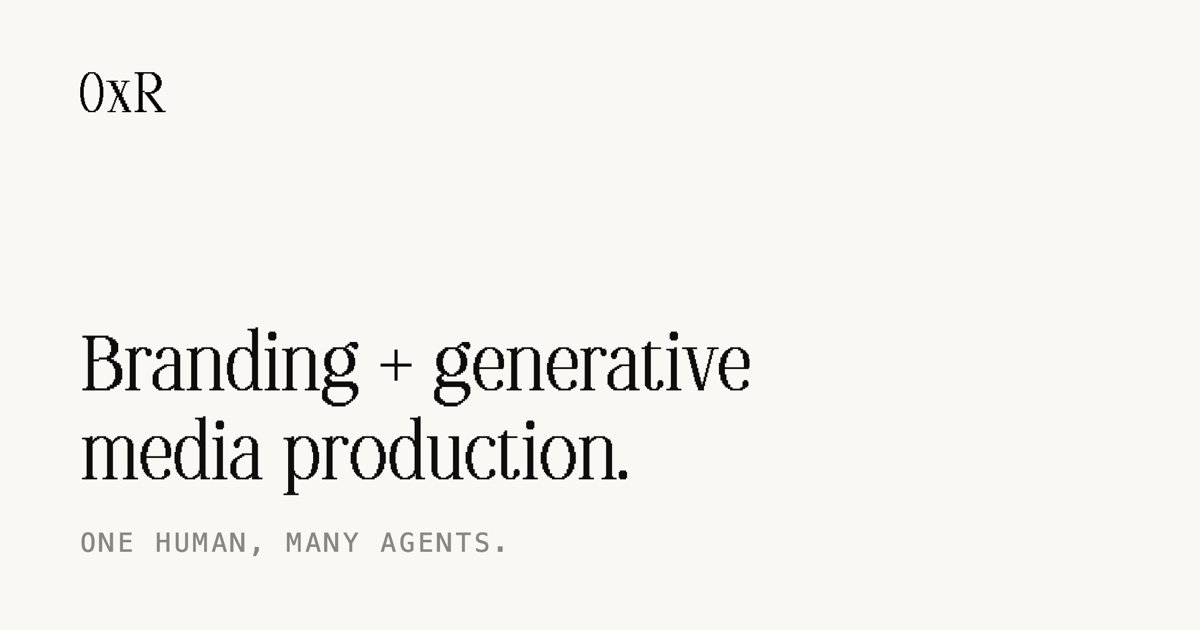
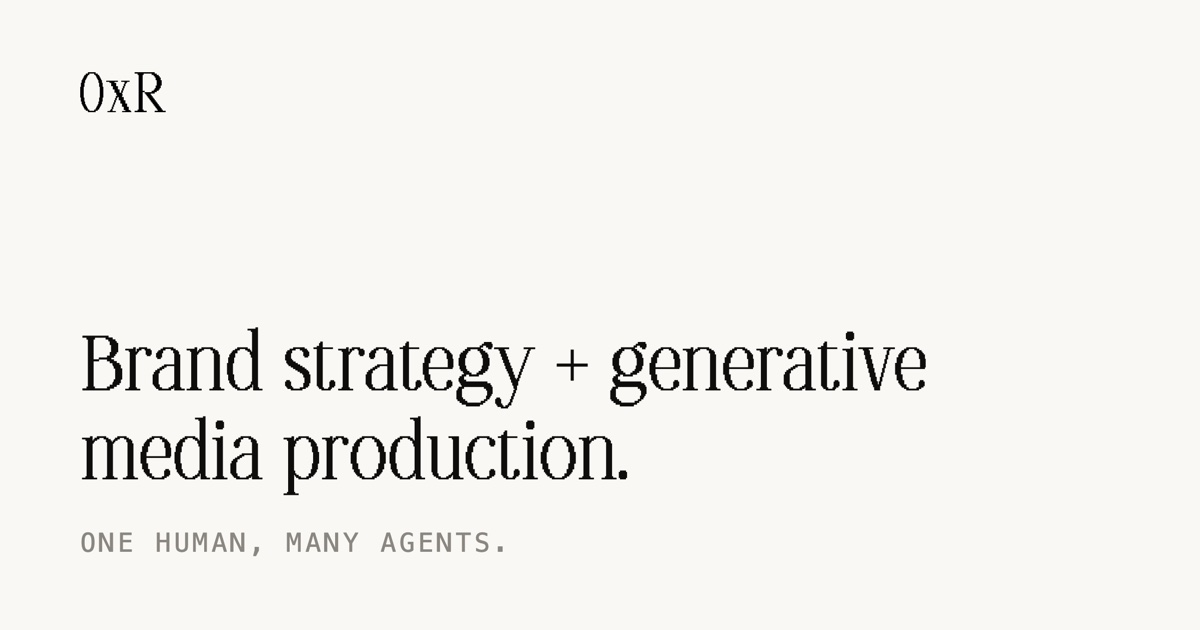
Brand strategy everywhere the site said branding (#14)
* feat(site): the offer is brand strategy and generative media production

* fix(site): brand strategy everywhere; tab title brand + media

Changed region(s): [[0.2158, 0.5127, 0.7708, 0.6635]]

diff --git a/index.html b/index.html
@@ -3,22 +3,22 @@
 <head>
 <meta charset="utf-8">
 <meta name="viewport" content="width=device-width, initial-scale=1">
-<title>0xR / branding + media</title>
+<title>0xR / brand + media</title>
 <meta name="author" content="Rodrigo Rivas Yassin">
-<meta name="description" content="We do branding and generative media production at a fraction of the time/cost of an agency.">
+<meta name="description" content="We do brand strategy and generative media production at a fraction of the time/cost of an agency.">
 <link rel="canonical" href="https://0xr.io/">
 <link rel="icon" href="favicon.png" type="image/png">
 <meta property="og:type" content="website">
 <meta property="og:site_name" content="0xR">
-<meta property="og:title" content="0xR / branding + media">
-<meta property="og:description" content="We do branding and generative media production at a fraction of the time/cost of an agency.">
+<meta property="og:title" content="0xR / brand + media">
+<meta property="og:description" content="We do brand strategy and generative media production at a fraction of the time/cost of an agency.">
 <meta property="og:url" content="https://0xr.io/">
 <meta property="og:image" content="https://0xr.io/media/card.jpg">
 <meta property="og:image:width" content="1200">
 <meta property="og:image:height" content="630">
 <meta name="twitter:card" content="summary_large_image">
-<meta name="twitter:title" content="0xR / branding + media">
-<meta name="twitter:description" content="We do branding and generative media production at a fraction of the time/cost of an agency.">
+<meta name="twitter:title" content="0xR / brand + media">
+<meta name="twitter:description" content="We do brand strategy and generative media production at a fraction of the time/cost of an agency.">
 <meta name="twitter:image" content="https://0xr.io/media/card.jpg">
 <link rel="preconnect" href="https://fonts.googleapis.com">
 <link rel="preconnect" href="https://fonts.gstatic.com" crossorigin>
@@ -201,7 +201,7 @@
   <div class="wrap">
     <p class="hello" data-scramble="mount" data-delay="0">Hello world, I'm Rodrigo Rivas&nbsp;Yassin.</p>
     <h1 data-scramble="mount" data-delay="60">A crew of (&nbsp;one&nbsp;) human + {&nbsp;many&nbsp;}&nbsp;agents.</h1>
-    <p class="sub">We do branding and generative media production at a fraction<br class="lb"> of the time/cost of an&nbsp;agency.</p>
+    <p class="sub">We do brand strategy and generative media production at a fraction<br class="lb"> of the time/cost of an&nbsp;agency.</p>
   </div>
     <div class="stage" id="stage" aria-hidden="true">
       <canvas data-crew="rodrigo"></canvas>

diff --git a/who.html b/who.html
@@ -5,20 +5,20 @@
 <meta name="viewport" content="width=device-width, initial-scale=1">
 <title>0xR / who</title>
 <meta name="author" content="Rodrigo Rivas Yassin">
-<meta name="description" content="Rodrigo Rivas Yassin. Born in Caracas, based in Madrid. Branding and generative media production. Cofounder of Sail, Fungi and Boveda.">
+<meta name="description" content="Rodrigo Rivas Yassin. Born in Caracas, based in Madrid. Brand strategy and generative media production. Cofounder of Sail, Fungi and Boveda.">
 <link rel="canonical" href="https://0xr.io/who">
 <link rel="icon" href="favicon.png" type="image/png">
 <meta property="og:type" content="website">
 <meta property="og:site_name" content="0xR">
 <meta property="og:title" content="0xR / who">
-<meta property="og:description" content="Rodrigo Rivas Yassin. Born in Caracas, based in Madrid. Branding and generative media production. Cofounder of Sail, Fungi and Boveda.">
+<meta property="og:description" content="Rodrigo Rivas Yassin. Born in Caracas, based in Madrid. Brand strategy and generative media production. Cofounder of Sail, Fungi and Boveda.">
 <meta property="og:url" content="https://0xr.io/who">
 <meta property="og:image" content="https://0xr.io/media/card.jpg">
 <meta property="og:image:width" content="1200">
 <meta property="og:image:height" content="630">
 <meta name="twitter:card" content="summary_large_image">
 <meta name="twitter:title" content="0xR / who">
-<meta name="twitter:description" content="Rodrigo Rivas Yassin. Born in Caracas, based in Madrid. Branding and generative media production. Cofounder of Sail, Fungi and Boveda.">
+<meta name="twitter:description" content="Rodrigo Rivas Yassin. Born in Caracas, based in Madrid. Brand strategy and generative media production. Cofounder of Sail, Fungi and Boveda.">
 <meta name="twitter:image" content="https://0xr.io/media/card.jpg">
 <link rel="preconnect" href="https://fonts.googleapis.com">
 <link rel="preconnect" href="https://fonts.gstatic.com" crossorigin>
@@ -110,7 +110,7 @@
       <div class="him" data-reveal>
         <div class="story">
           <p>Born in Caracas, Venezuela. Based in&nbsp;Madrid.</p>
-          <p>I do branding and generative media production for companies, with my
+          <p>I do brand strategy and generative media production for companies, with my
           crew of&nbsp;agents.</p>
           <p>Multiple-time founder, and raised more than $1M for my previous company,
           Sail. I ran every surface the brand lived in at each one of them, and we

diff --git a/work.html b/work.html
@@ -197,7 +197,7 @@
           <div class="cases" data-cases="alle"></div>
           <div class="did">
             <p class="did-lab">What we did</p>
-            <p><b>Branding</b><span>positioning / logotype</span></p>
+            <p><b>Brand strategy</b><span>positioning / logotype</span></p>
             <p><b>Generative media production</b><span>campaign films / character systems / product films / content for socials</span></p>
           </div>
         </div>
@@ -226,7 +226,7 @@
           <div class="brands" id="brands"></div>
           <div class="did">
             <p class="did-lab">What we did</p>
-            <p><b>Branding</b><span>positioning / brand identity / logotype / typography / art direction</span></p>
+            <p><b>Brand strategy</b><span>positioning / brand identity / logotype / typography / art direction</span></p>
             <p><b>Generative media production</b><span>campaign films / character systems / product films / copywriting / content for socials</span></p>
             <p><b>Product design</b><span>UI / UX / web</span></p>
             <p><b>Go-to-market</b><span>launches / channels / activations / partnerships</span></p>
@@ -250,7 +250,7 @@
           <div class="cases" data-cases="fungi"></div>
           <div class="did">
             <p class="did-lab">What we did</p>
-            <p><b>Branding</b><span>positioning / brand identity / logotype / typography / art direction</span></p>
+            <p><b>Brand strategy</b><span>positioning / brand identity / logotype / typography / art direction</span></p>
             <p><b>Generative media production</b><span>character systems / product films / copywriting / content for socials</span></p>
             <p><b>Product design</b><span>UI / UX / web</span></p>
             <p><b>Go-to-market</b><span>launches / channels / activations / partnerships</span></p>

diff --git a/style.css b/style.css
@@ -427,6 +427,7 @@ canvas.organism.residue { z-index: 60; }
   font-family: var(--mono);
 }
 .ipod.up { transform: none; }
+.ipod[hidden] { display: none; }   /* the author display: flex would otherwise beat the hidden attribute and leave it parked, peeking, below the screen */
 @media (prefers-reduced-motion: reduce) { .ipod { transition: none; } .music-btn .eq i { animation: none; } }
 
 .ipod-screen {

diff --git a/SITE.md b/SITE.md
@@ -16,13 +16,13 @@ history was restarted clean after the move. No personal data lives here.
 
 ## What the site says
 
-**Branding and generative media production**, ruled 2026-10-13 and carried in
+**Brand strategy and generative media production**, ruled 2026-10-13 and renamed on 2026-10-21 (his call: wherever the site said branding it says brand strategy; the short tab title keeps "brand + media"), carried in
 `studio/POSITIONING.md` and `studio/clients/0xr/positioning/services.md`.
 
 - Hero: "A crew of ( one ) human + { many } agents."
-- Meta description: "We do branding and generative media production at a fraction
+- Meta description: "We do brand strategy and generative media production at a fraction
   of the time/cost of an agency."
-- Tab title on the home page: `0xR / branding + media`. The others are
+- Tab title on the home page: `0xR / brand + media`. The others are
   `0xR / work` and `0xR / who`.
 
 The word is always *crew*. Sail, Fungi and Boveda are described as onchain finance.
@@ -236,7 +236,7 @@ device.
    scope, which this machine's `gh` login lacks. Either run
    `gh auth refresh -h github.com -s user` or paste them at
    github.com/settings/profile: bio "A crew of ( one ) human + { many } agents.
-   Branding and generative media production.", website `https://0xr.io`.
+   Brand strategy and generative media production.", website `https://0xr.io`.
 3. **The second outperformance article** never arrived. One is linked.
 
 Settled and closed: the Fungi `$9M` market cap stands (2026-09-09). Allé has its

diff --git a/README.md b/README.md
@@ -1,6 +1,6 @@
 # 0xr-site
 
-The source of **0xr.io**: branding and generative media production, by a crew of
+The source of **0xr.io**: brand strategy and generative media production, by a crew of
 ( one ) human + { many } agents. Site files live at the repo root and Vercel deploys
 this repo directly.
 
